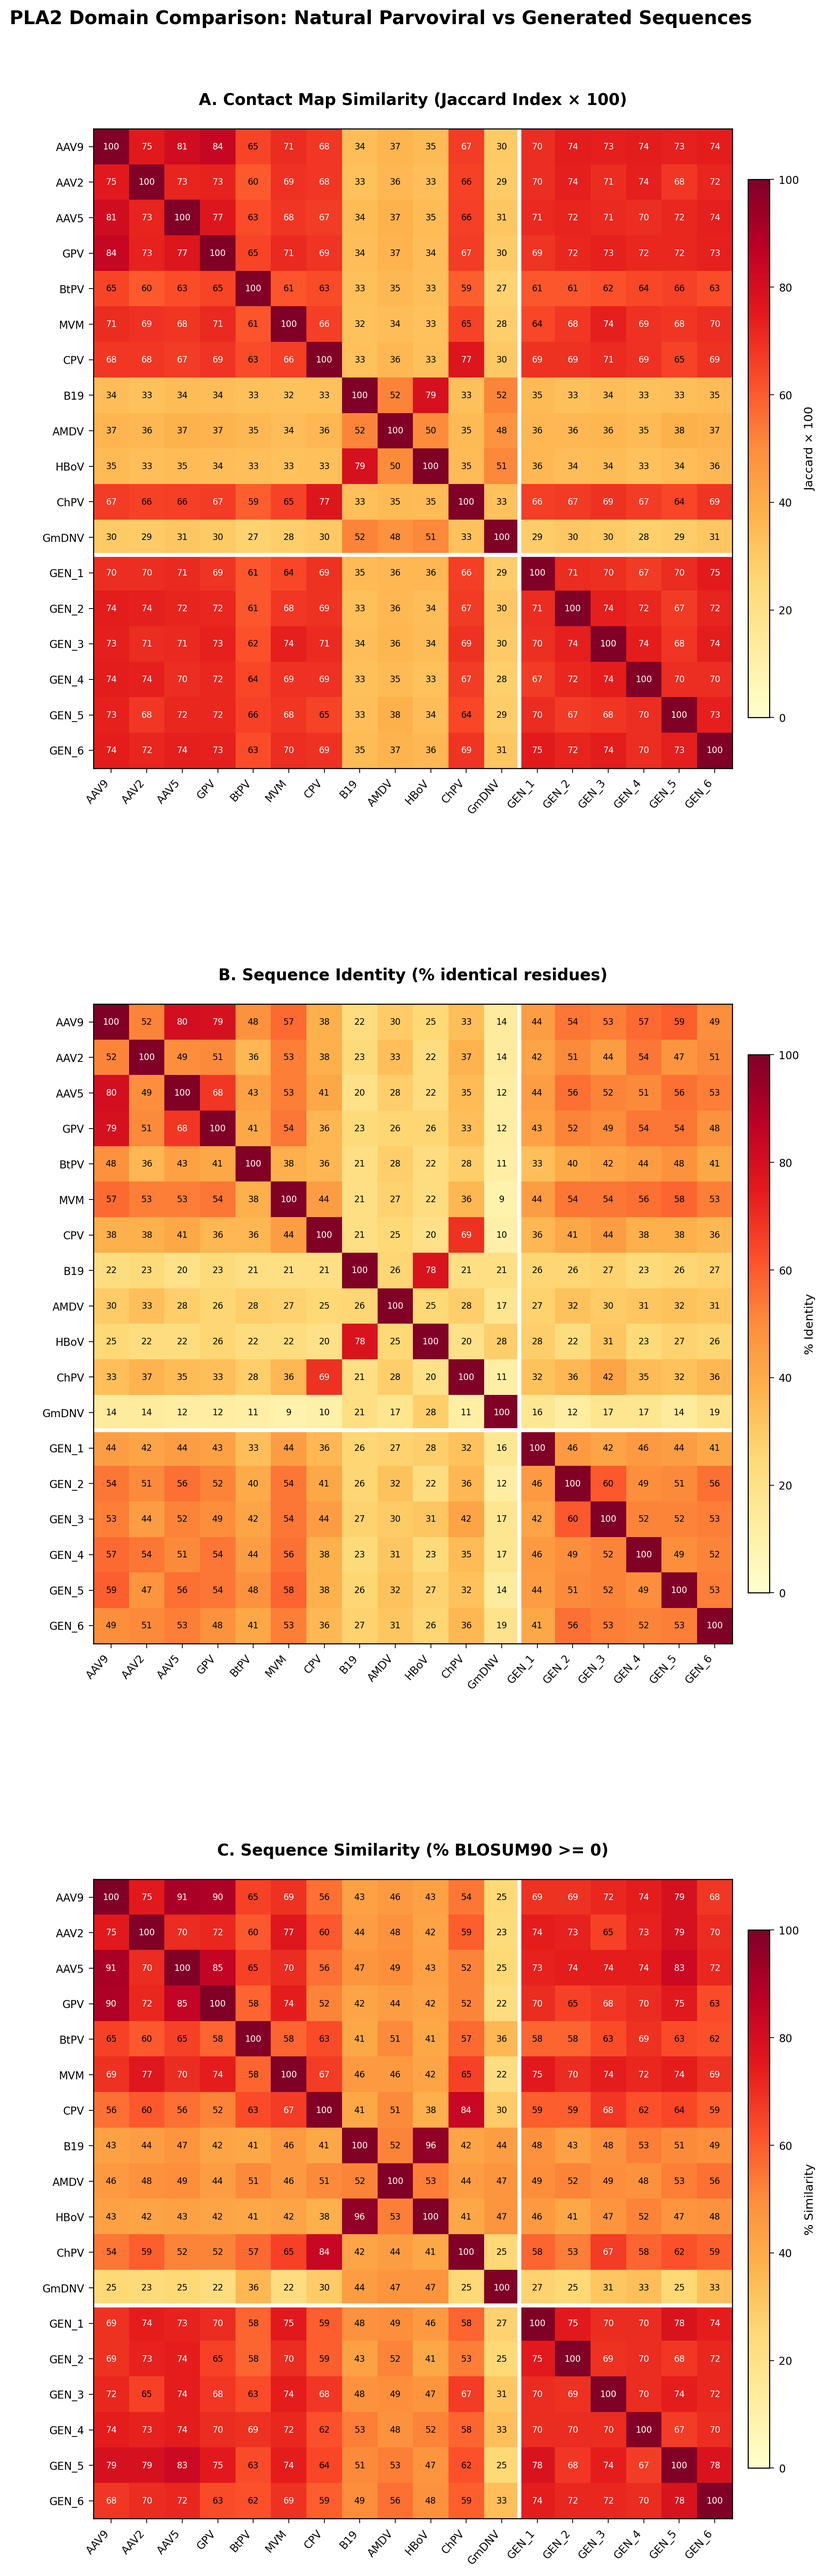
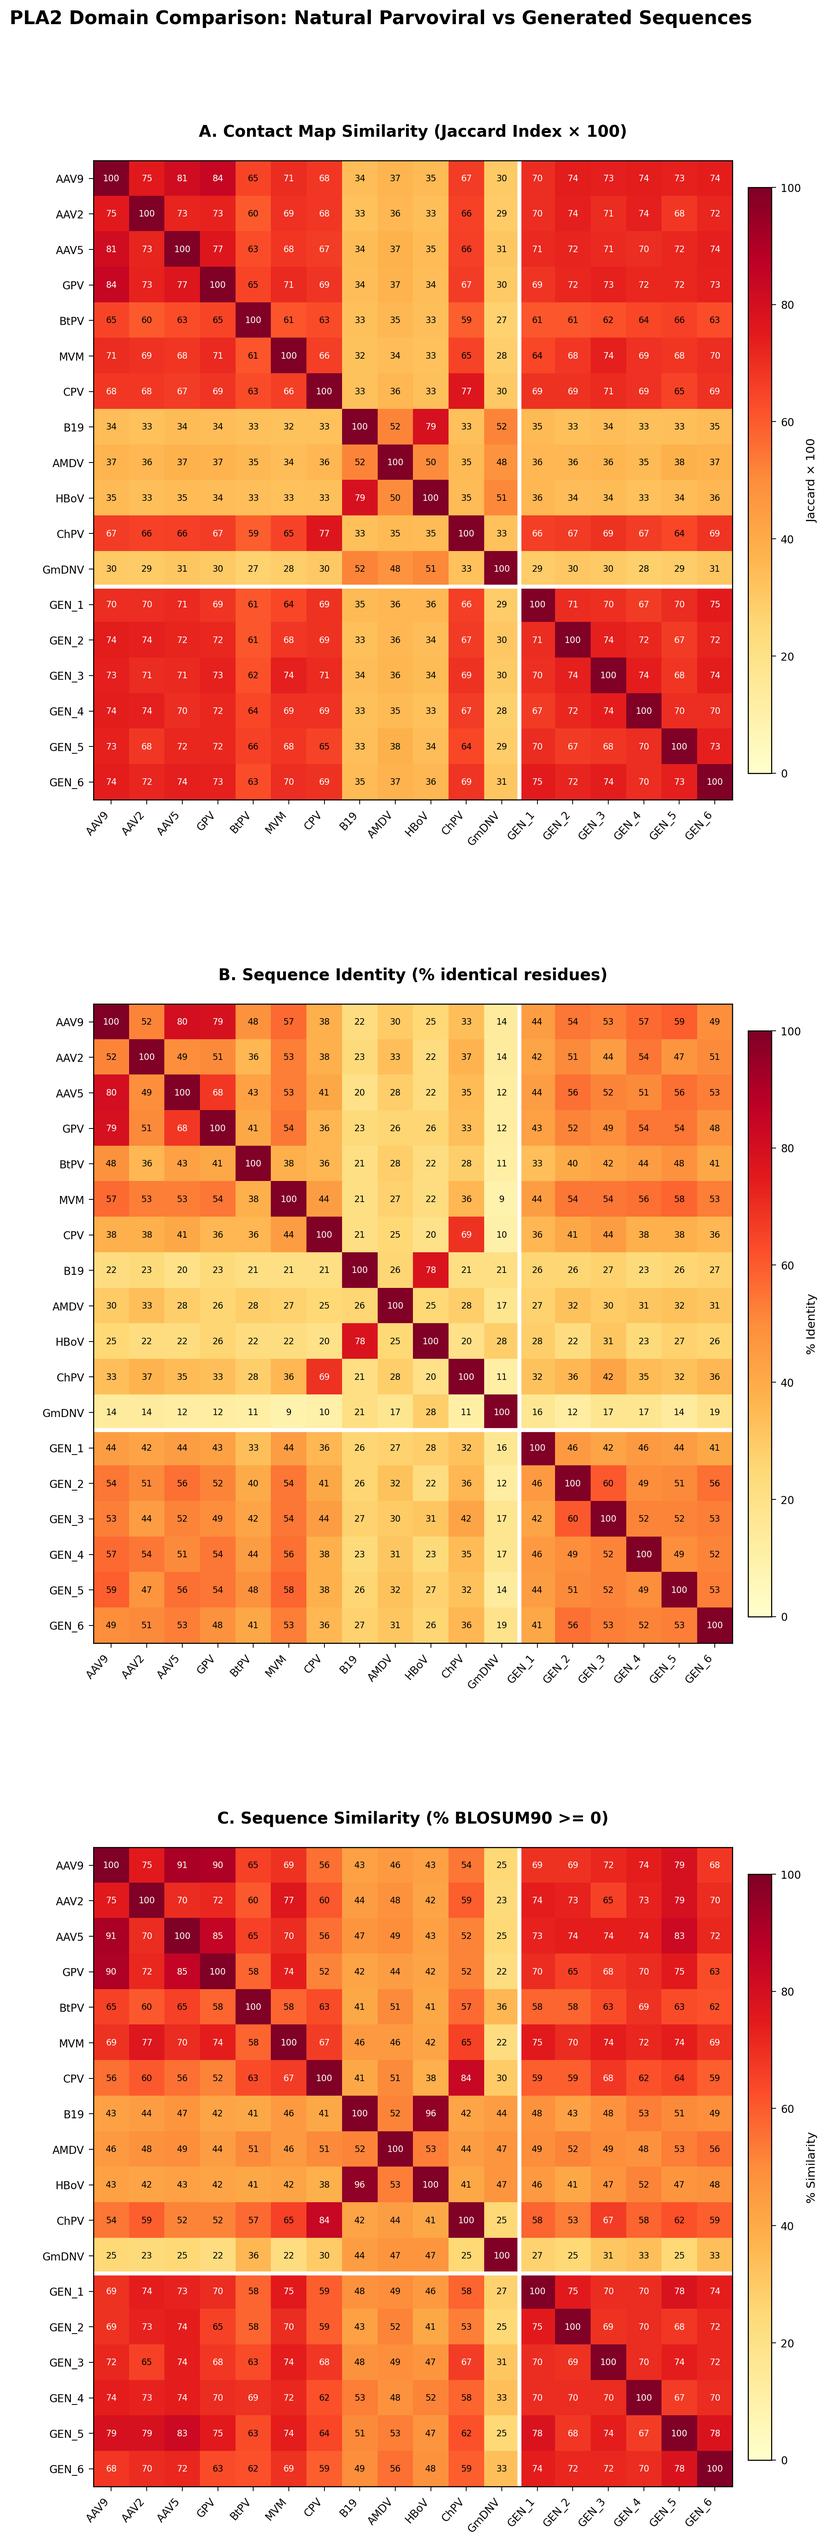
Tighten vertical spacing between heatmap panels
Made-with: Cursor

diff --git a/src/make_figures.py b/src/make_figures.py
@@ -347,7 +347,7 @@ def main():
     labels = [n[:25] for n in viz_names]
     cmap_shared = "YlOrRd"
     fig, axes = plt.subplots(3, 1, figsize=(12, 28))
-    fig.subplots_adjust(hspace=0.22, left=0.25, right=0.92, bottom=0.02, top=0.94)
+    fig.subplots_adjust(hspace=0.08, left=0.25, right=0.92, bottom=0.02, top=0.94)
     panels = [
         (axes[0], sim_j * 100, "A. Contact Map Similarity (Jaccard Index × 100)", 0, 100, ".0f", "Jaccard × 100"),
         (axes[1], sim_id, "B. Sequence Identity (% identical residues)", 0, 100, ".0f", "% Identity"),
